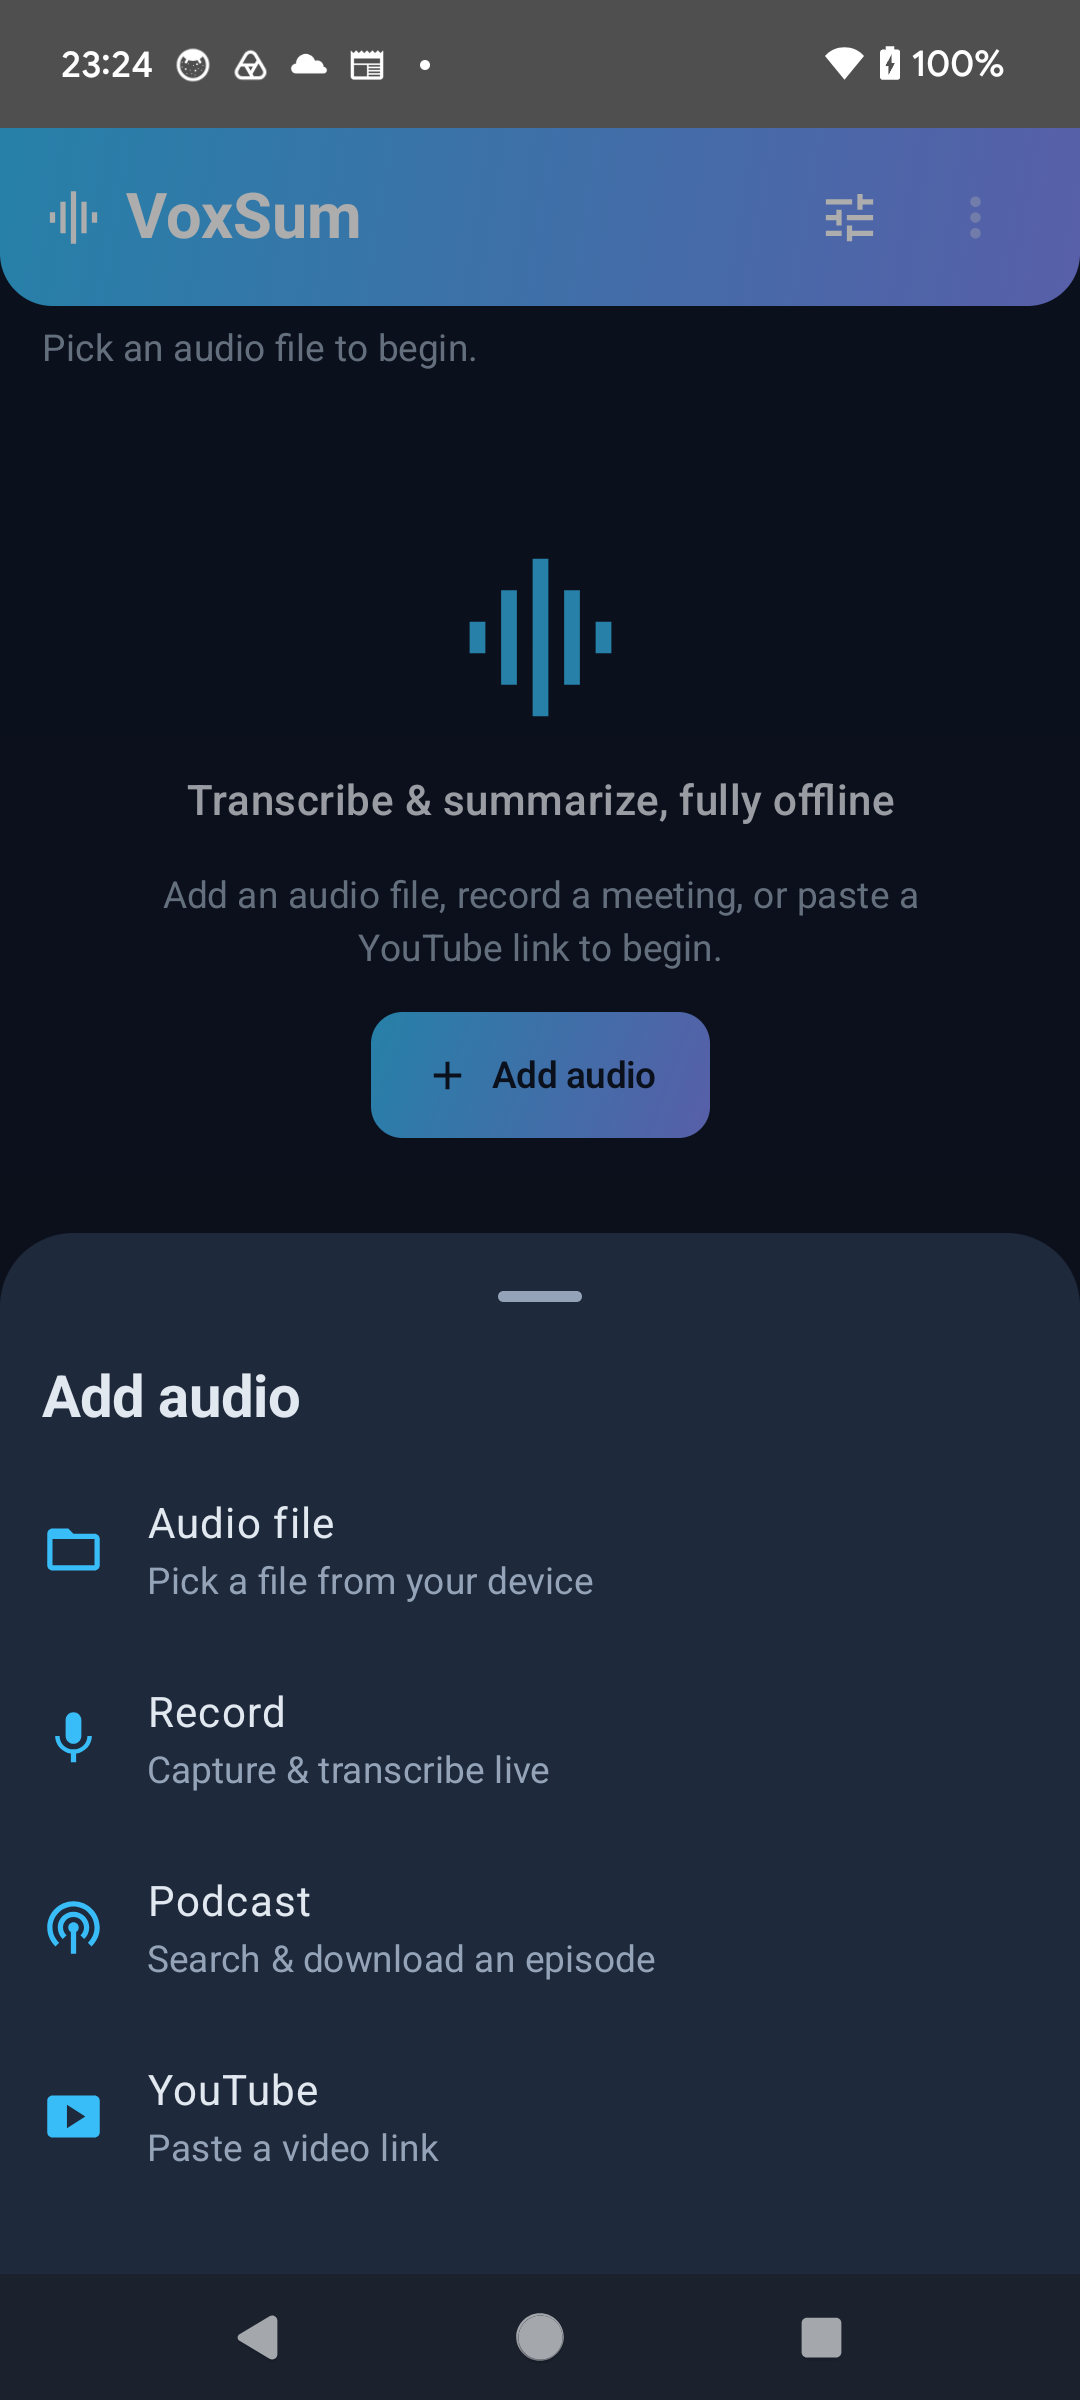
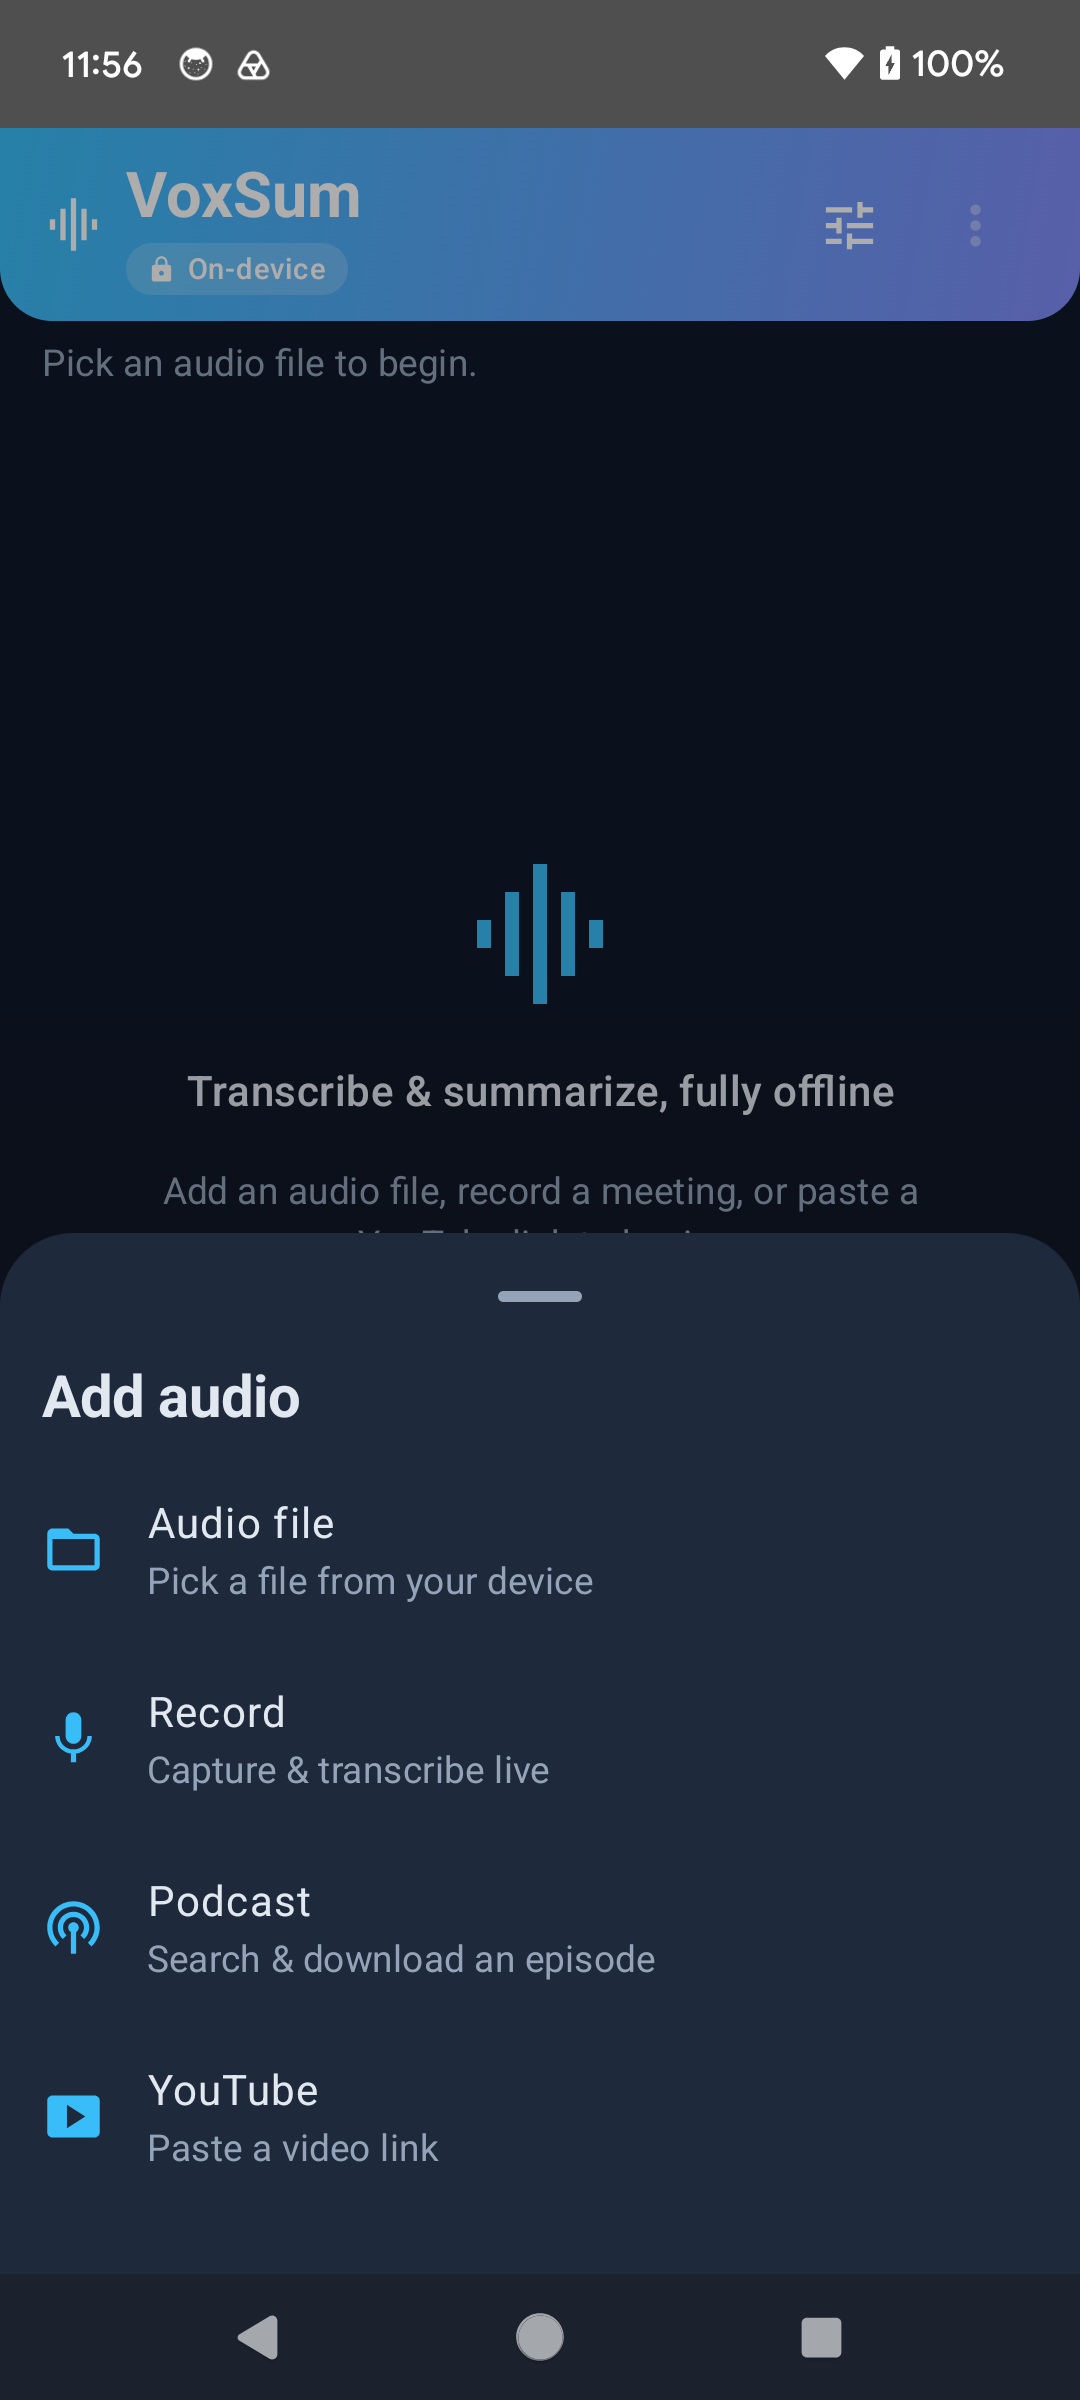
feat(ui): dock the player at the bottom (music-player layout) + refresh screenshots
Move the synced audio player from inline-below-the-source-bar to the Scaffold's
bottomBar, on an elevated surface. The transcript now scrolls in the main area with
the playback controls pinned at the bottom — the familiar music-player / synced-lyrics
pattern. The active-line highlight + auto-scroll continue to track the playhead.
Verified on a Pixel 6 in both English and Traditional Chinese.

Screenshots: refresh all four English shots for the new layout (home with the value
pillars + on-device badge, add-source, transcript, summary), and add the four
Traditional Chinese captures. README.zh-TW.md now points at the *-zhtw.png set
(previously it reused the English screenshots).

Claude-Session: https://claude.ai/code/session_01FQGQ3b3frA6UYG8ucsAtYm

diff --git a/app/src/main/java/studio/voxsum/MainActivity.kt b/app/src/main/java/studio/voxsum/MainActivity.kt
@@ -25,6 +25,7 @@ import androidx.compose.foundation.layout.Spacer
 import androidx.compose.foundation.layout.fillMaxSize
 import androidx.compose.foundation.layout.fillMaxWidth
 import androidx.compose.foundation.layout.height
+import androidx.compose.foundation.layout.navigationBarsPadding
 import androidx.compose.foundation.layout.padding
 import androidx.compose.foundation.layout.size
 import androidx.compose.foundation.layout.width
@@ -418,6 +419,51 @@ private fun TranscribeScreen(
             )
         },
         snackbarHost = { SnackbarHost(snackbarHostState) },
+        bottomBar = {
+            // Docked "now playing" bar — like a music player, the controls stay pinned at the
+            // bottom while the transcript scrolls above.
+            if (player != null) {
+                fun doSeek(ms: Int) {
+                    val p = player ?: return
+                    val clamped = ms.coerceIn(0, durationMs)
+                    runCatching { p.seekTo(clamped) }
+                    positionMs = clamped
+                    if (!isPlaying) { p.start(); isPlaying = true }
+                }
+                Surface(color = VoxSumPalette.PanelSurface, tonalElevation = 3.dp) {
+                    Column(
+                        Modifier
+                            .fillMaxWidth()
+                            .navigationBarsPadding()
+                            .padding(horizontal = 16.dp),
+                    ) {
+                        PlayerBar(
+                            utterances = utterances,
+                            positionMs = positionMs,
+                            durationMs = durationMs,
+                            dragMs = dragMs,
+                            isPlaying = isPlaying,
+                            volume = volume,
+                            muted = muted,
+                            activeIndex = activeIndex,
+                            onPlayPause = {
+                                val p = player ?: return@PlayerBar
+                                if (isPlaying) { p.pause(); isPlaying = false } else { p.start(); isPlaying = true }
+                            },
+                            onSeekTo = { doSeek(it) },
+                            onDragChange = { dragMs = it },
+                            onSkip = { delta -> doSeek((dragMs ?: positionMs) + delta) },
+                            onVolume = { v -> volume = v; muted = v == 0f; player?.setVolume(v, v) },
+                            onToggleMute = {
+                                muted = !muted
+                                val v = if (muted) 0f else volume.coerceAtLeast(0.05f).also { volume = it }
+                                player?.setVolume(v, v)
+                            },
+                        )
+                    }
+                }
+            }
+        },
     ) { innerPadding ->
         Column(
             Modifier
@@ -436,40 +482,6 @@ private fun TranscribeScreen(
                     recSeconds = recSeconds,
                     onAddSource = { showAddSourceSheet = true },
                     onStop = { handleStop() },
-                )
-            }
-
-            // --- Rich synced player (available during transcription too, like the web app) ---
-            if (player != null) {
-                fun doSeek(ms: Int) {
-                    val p = player ?: return
-                    val clamped = ms.coerceIn(0, durationMs)
-                    runCatching { p.seekTo(clamped) }
-                    positionMs = clamped
-                    if (!isPlaying) { p.start(); isPlaying = true }
-                }
-                PlayerBar(
-                    utterances = utterances,
-                    positionMs = positionMs,
-                    durationMs = durationMs,
-                    dragMs = dragMs,
-                    isPlaying = isPlaying,
-                    volume = volume,
-                    muted = muted,
-                    activeIndex = activeIndex,
-                    onPlayPause = {
-                        val p = player ?: return@PlayerBar
-                        if (isPlaying) { p.pause(); isPlaying = false } else { p.start(); isPlaying = true }
-                    },
-                    onSeekTo = { doSeek(it) },
-                    onDragChange = { dragMs = it },
-                    onSkip = { delta -> doSeek((dragMs ?: positionMs) + delta) },
-                    onVolume = { v -> volume = v; muted = v == 0f; player?.setVolume(v, v) },
-                    onToggleMute = {
-                        muted = !muted
-                        val v = if (muted) 0f else volume.coerceAtLeast(0.05f).also { volume = it }
-                        player?.setVolume(v, v)
-                    },
                 )
             }
 
